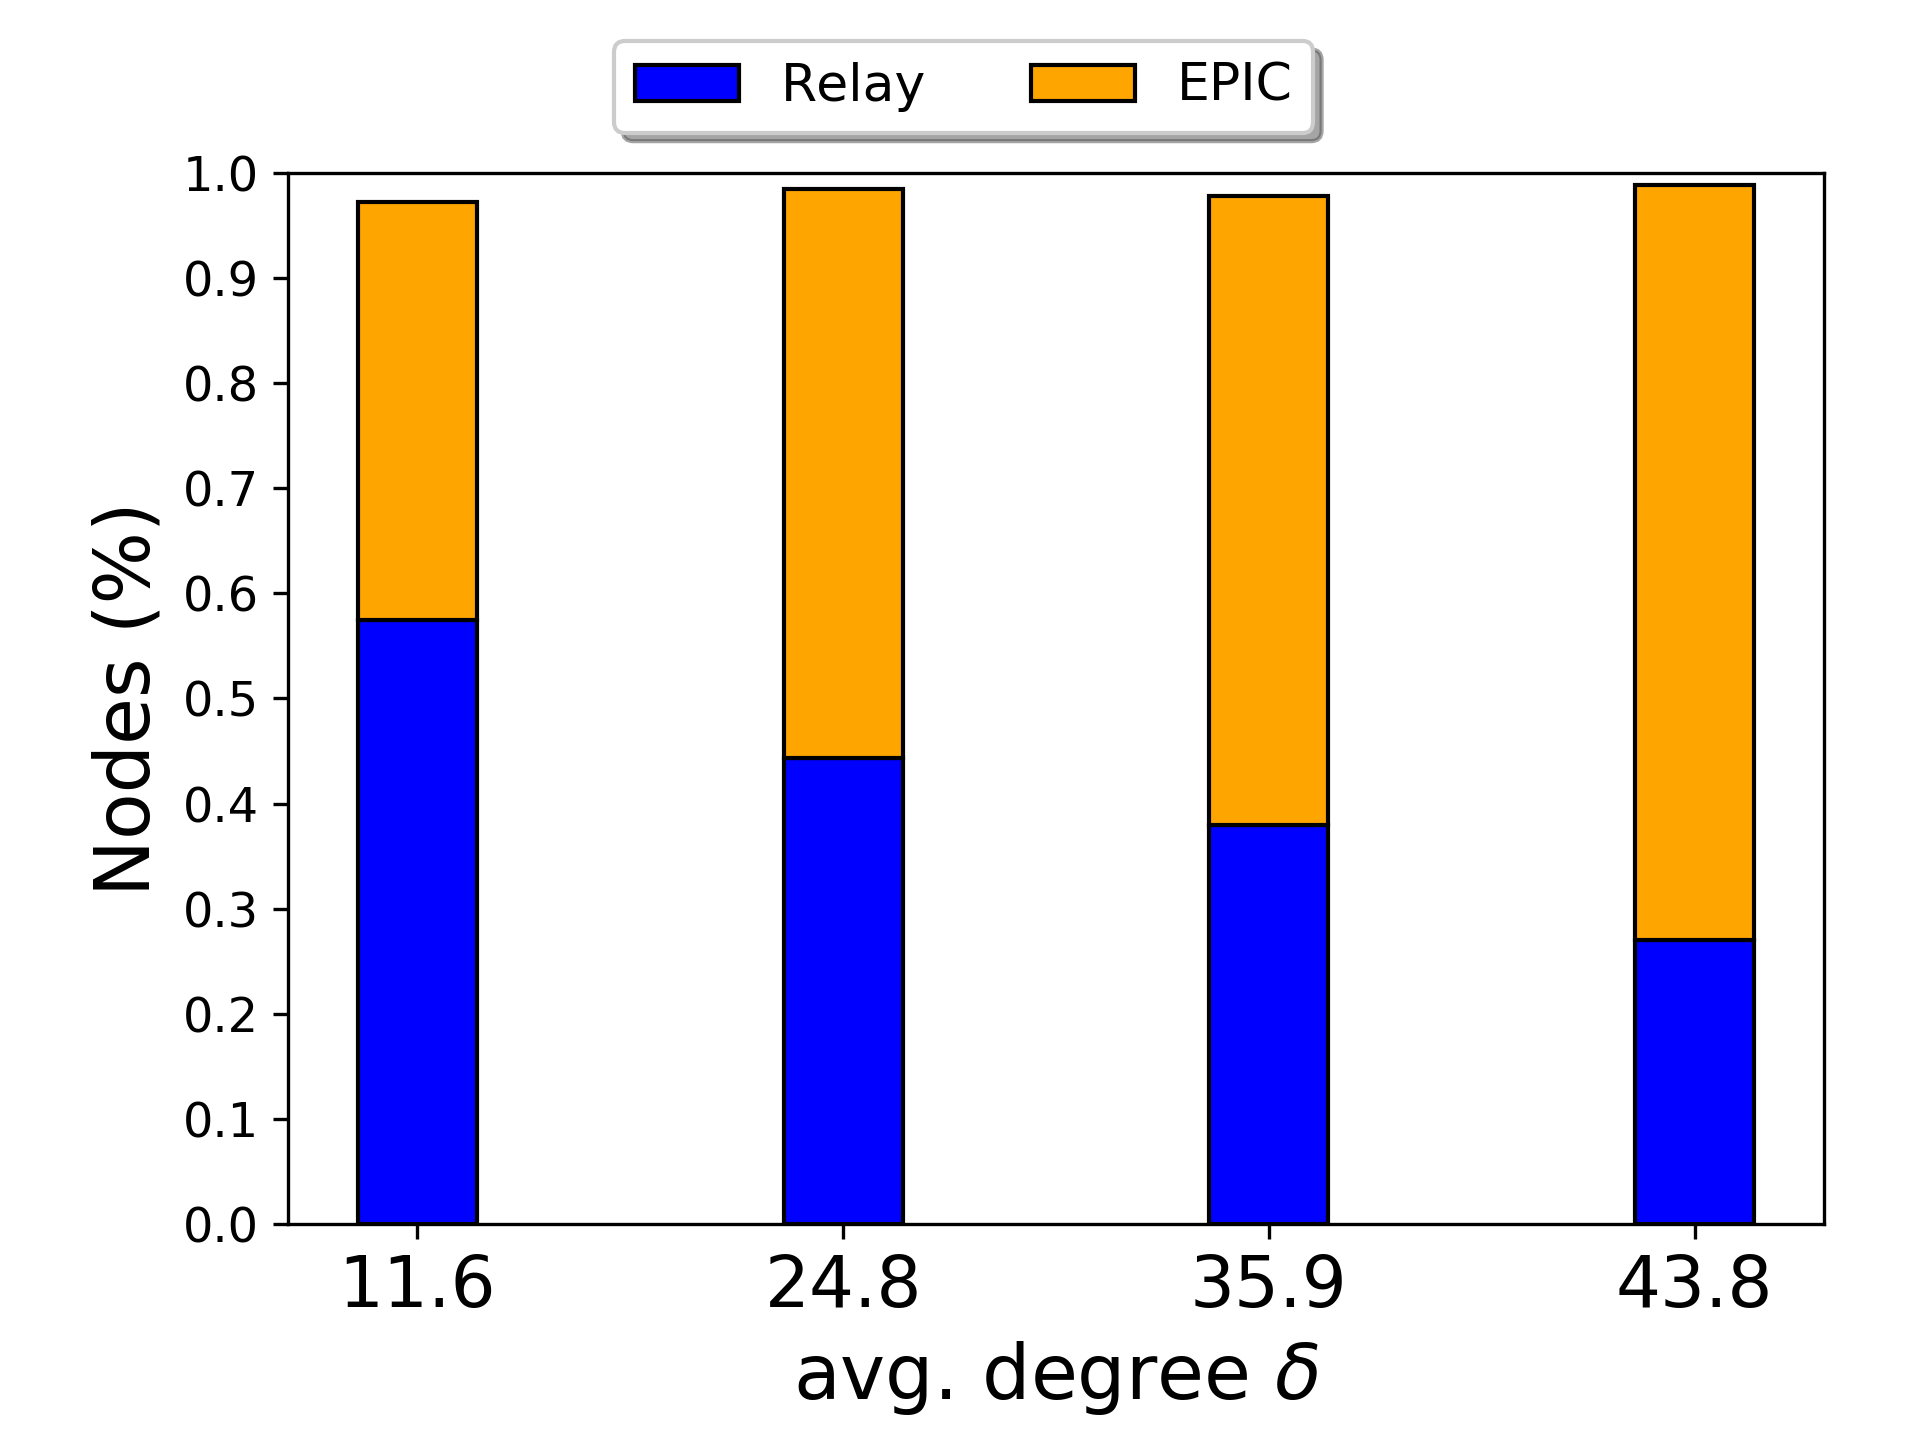
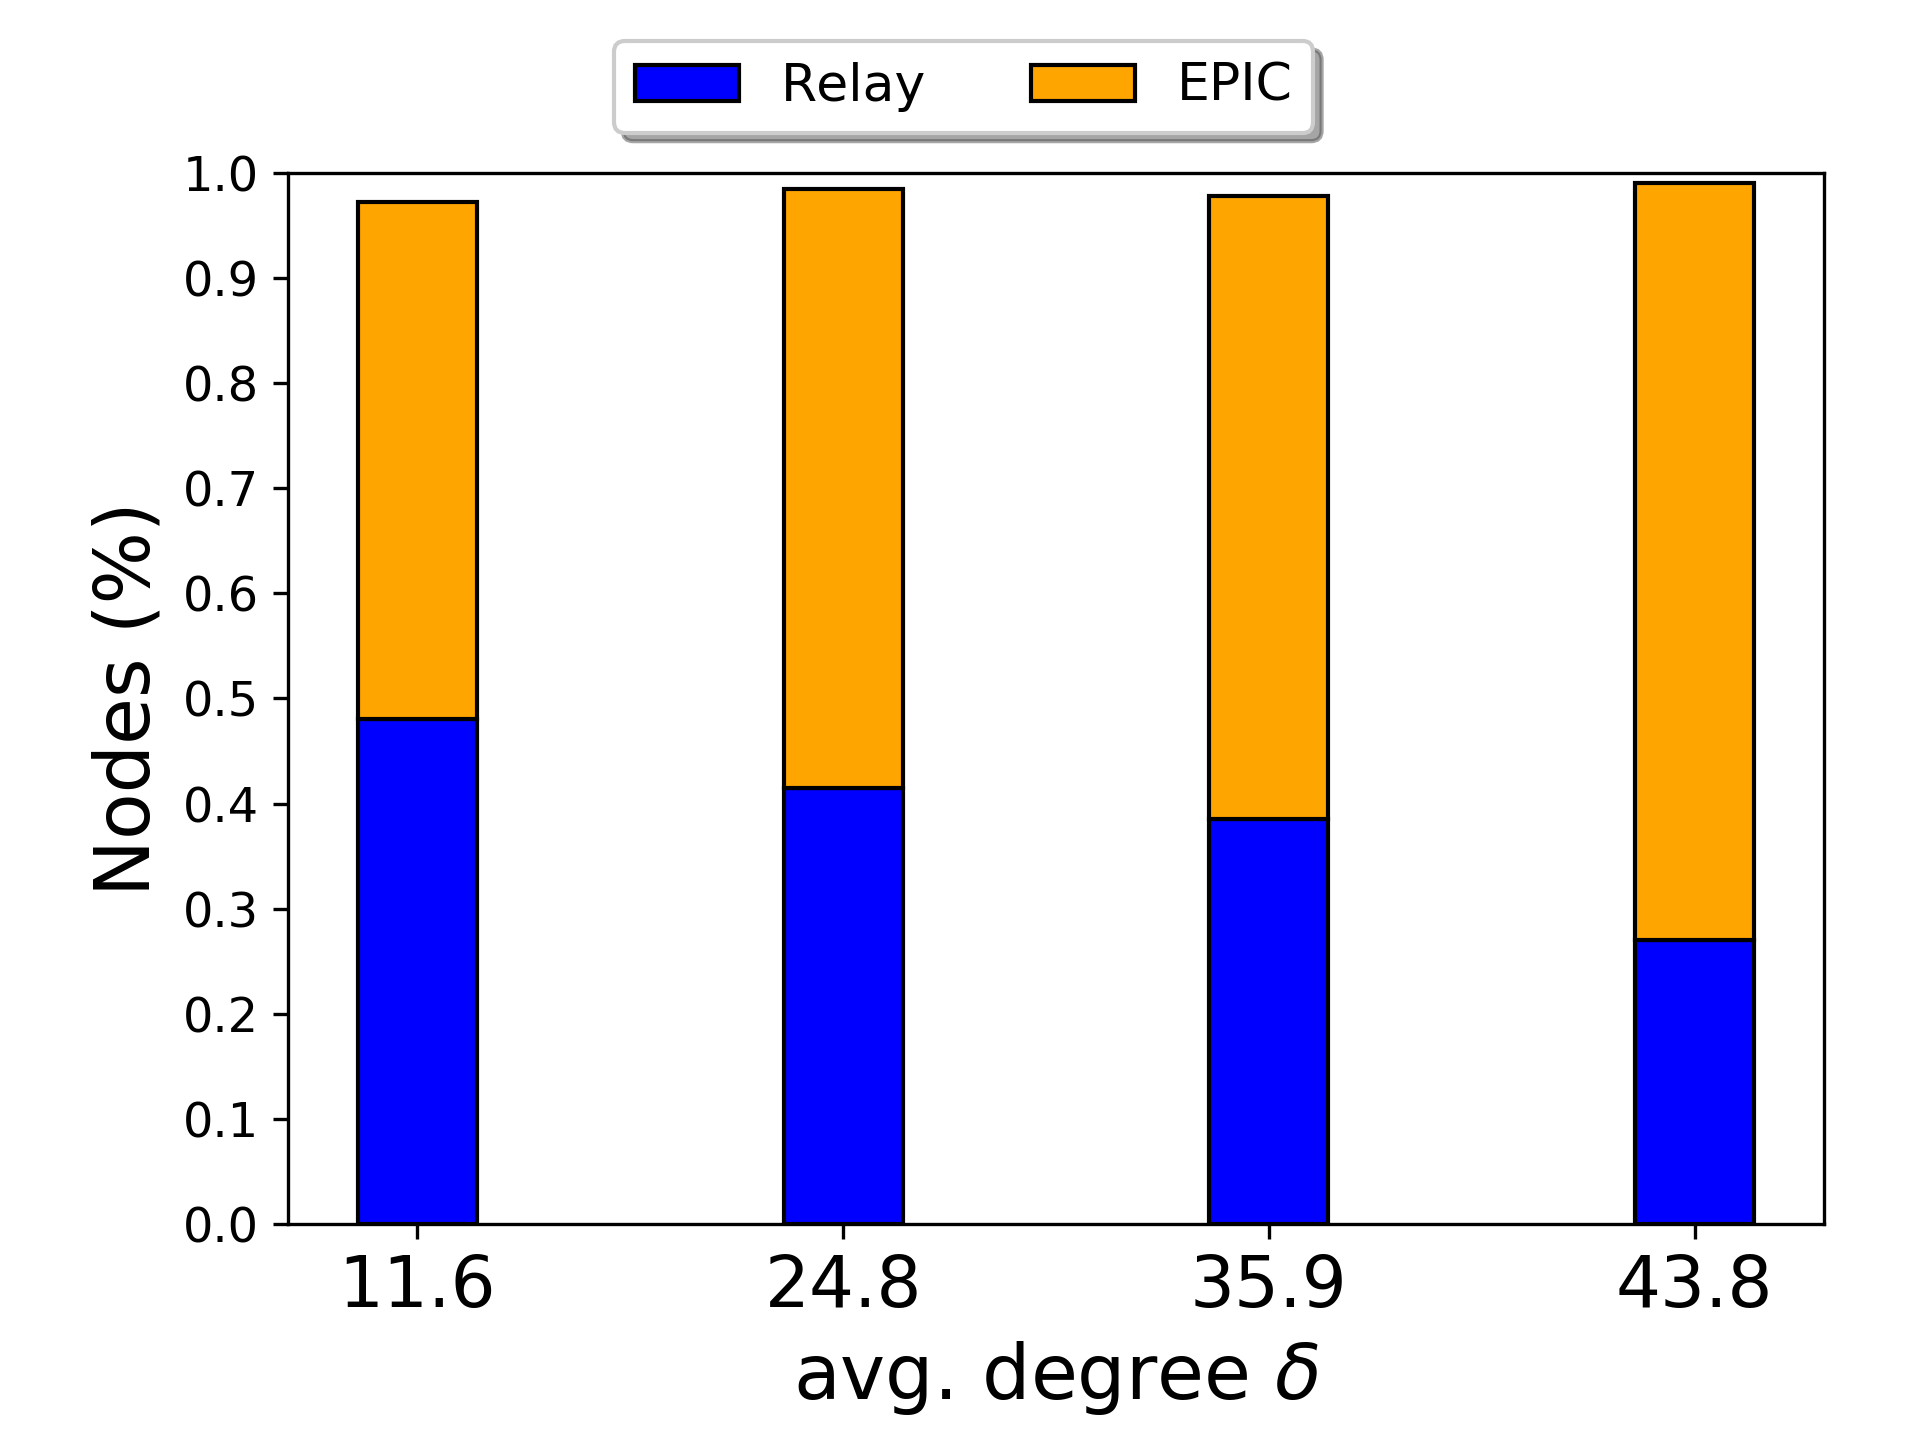
graphs update

Changed region(s): [[0.1875, 0.4062, 0.25, 0.5], [0.4062, 0.5, 0.4688, 0.5625], [0.625, 0.5625, 0.6875, 0.5938]]

diff --git a/grafici/graph-slide-TC-network-traffic.py b/grafici/graph-slide-TC-network-traffic.py
@@ -1,0 +1,69 @@
+
+from matplotlib import pyplot as plt 
+from matplotlib.ticker import FuncFormatter
+import numpy as np
+
+
+plt.rcParams.update({'font.size': 13})
+plt.rc('legend', fontsize=12.5)
+plt.rc('xtick', labelsize=12)
+plt.rc('ytick', labelsize=11.5)
+plt.rc('axes', titlesize=11)
+plt.rc('axes', labelsize=13)
+
+
+
+def kilobytes(x, pos):
+    '''The two args are the value and tick position'''
+    return '%1.0fKB' % (x*1e-3)
+def bytes(x, pos):
+	return '%1.0f' % x
+
+formatter = FuncFormatter(kilobytes)
+formatter_bytes = FuncFormatter(bytes)
+
+fig, ax = plt.subplots()
+ax.yaxis.set_major_formatter(formatter)
+ax.xaxis.set_major_formatter(formatter_bytes)
+
+
+
+#(249/790)*(7+22*6+x) > (608/790)*(7+x)
+
+overhead_msg  = 5+6
+overhead_epic = 22*3+overhead_msg
+
+f_epic, f_prb60, f_prb93, f_wp = 243, 478, 724, 569
+
+X_MAX = 175
+
+x_lux = np.arange(0, X_MAX+1, 5 )
+l1 = f_epic  * (overhead_epic+x_lux)
+l2 = f_prb93 * (overhead_msg+x_lux)
+l3 = f_prb60 * (overhead_msg+x_lux)
+l4 = f_wp    * (overhead_msg+x_lux)
+p1 = ax.plot(x_lux, l1, 'r--')
+p2 = ax.plot(x_lux, l2, 'g--')
+p3 = ax.plot(x_lux, l3, 'b--')
+p4 = ax.plot(x_lux, l4, 'k--')
+
+ax.legend((p1[0], p2[0], p3[0], p4[0]), ('EPIC', r'$P = 0.93$', r'$P = 0.6$', 'w-p-Persistence'))
+
+#ax.set_xlabel('Message size (Bytes)')
+fig.text(0.54, 0.032, 'Payload length (bytes)', ha='center', va='center')
+#fig.text(0.325, 0.91, 'Luxemburg', ha='center', va='center')
+ax.set_ylabel('Total network traffic (Kbytes)')
+
+
+ax.set_ylim(0, 100000)
+ax.set_xlim(5, X_MAX)
+
+
+plt.gcf().subplots_adjust(left=0.15, right=0.95)
+
+#plt.show()
+plt.savefig('grafici/top_car/traffic_comparison.png', dpi=300)
+
+
+
+

diff --git a/grafici/graph-epidemic.py b/grafici/graph-epidemic.py
@@ -1,0 +1,49 @@
+
+import numpy as np
+from scipy.integrate import odeint
+import matplotlib.pyplot as plt
+
+# Total population, N.
+N = 1000
+# Initial number of infected and recovered individuals, I0 and R0.
+I0, R0 = 1, 0
+# Everyone else, S0, is susceptible to infection initially.
+S0 = N - I0 - R0
+# Contact rate, beta, and mean recovery rate, gamma, (in 1/days).
+beta, gamma = 1, 0.4 
+# A grid of time points (in days)
+t = np.linspace(0, 160, 160)
+
+# The SIR model differential equations.
+def deriv(y, t, N, beta, gamma):
+    S, I, R = y
+    dSdt = -beta * S * I / N
+    dIdt = beta * S * I / N - gamma * I
+    dRdt = gamma * I
+    return dSdt, dIdt, dRdt
+
+# Initial conditions vector
+y0 = S0, I0, R0
+# Integrate the SIR equations over the time grid, t.
+ret = odeint(deriv, y0, t, args=(N, beta, gamma))
+S, I, R = ret.T
+
+# Plot the data on three separate curves for S(t), I(t) and R(t)
+fig = plt.figure(facecolor='w')
+ax = fig.add_subplot(111, axisbelow=True)
+ax.plot(t, S/N, 'b', alpha=0.5, lw=2, label='Susceptible')
+ax.plot(t, I/N, 'r', alpha=0.5, lw=2, label='Infected')
+ax.plot(t, R/N, 'g', alpha=0.5, lw=2, label='Recovered with immunity')
+#ax.set_xlabel('Time /days')
+#ax.set_ylabel('Number (1000s)')
+ax.set_ylim(0,1.0)
+#ax.set_xlim(0,160)
+ax.grid()
+#ax.yaxis.set_tick_params(length=0)
+#ax.xaxis.set_tick_params(length=0)
+#ax.grid(b=True, which='major', c='w', lw=2, ls='-')
+legend = ax.legend()
+legend.get_frame().set_alpha(0.5)
+#for spine in ('top', 'right', 'bottom', 'left'):
+    #ax.spines[spine].set_visible(True)
+plt.show()

diff --git a/grafici/graph-TC-alg-rmin-comp.py b/grafici/graph-TC-alg-rmin-comp.py
@@ -13,11 +13,11 @@ plt.rc('ytick', labelsize=11.5)
 N = 6
 
 
-means_frw_low_dens = np.array([73.05174563591022, 55.531483790523666, 40.39900249376558, 27.771197007481287, 16.683291770573568, 10.11533665835411]) /100
-means_recv_low_dens = np.array([98.82431421446393, 97.25748129675812, 92.67082294264337, 80.20573566084788, 64.50124688279301, 45.84632169576061])*0.98/100 - means_frw_low_dens 
+means_frw_low_dens = np.array([56.05174563591022, 49.531483790523666, 40.39900249376558, 27.771197007481287, 16.683291770573568, 10.11533665835411]) /100
+means_recv_low_dens = np.array([99.32431421446393, 98.25748129675812, 92.67082294264337, 80.20573566084788, 64.50124688279301, 45.84632169576061])/100 - means_frw_low_dens 
 
 means_frw_high_dens = np.array([535.61, 287, 188.8, 128.8, 94.16, 57.2, ]) /(790)
-means_recv_high_dens = np.array([99.5, 98.8, 98.4, 89.45, 88.79, 73])/100 - means_frw_high_dens
+means_recv_high_dens = np.array([99.5, 98.9, 98.5, 93.45, 86.79, 73])/100 - means_frw_high_dens
 
 
 

diff --git a/grafici/graph-slide-TC-forw-recv.py b/grafici/graph-slide-TC-forw-recv.py
@@ -53,8 +53,15 @@ plt.rc('ytick', labelsize=11.5)
 
 
 N = 4
-means_infected = (0.9725-0.575, 0.985-350/790, 0.978-300/790, 0.988-0.27)
-means_frw = (0.575, 350/790, 300/790, 0.27)
+#means_infected = (0.9725-0.575, 0.985-350/790, 0.978-300/790, 0.99-0.27)
+#means_frw = (0.575, 350/790, 300/790, 0.27)
+means_frw = (0.48, 0.415, 0.385, 0.27)
+means_infected = (0.9725, 0.985, 0.978, 0.985)
+
+means_infected = np.array(means_infected) - np.array(means_frw)
+
+
+
 ind = np.arange(N)    # the x locations for the groups
 width = 0.28       # the width of the bars: can also be len(x) sequence
 

diff --git a/car.py b/car.py
@@ -48,7 +48,7 @@ class Car:
 		msg.hop += 1
 
 	def broadMsg(self):
-		bcast = self.evaluate_positions_probabilistic(self.messages, self.pos)
+		bcast = self.evaluate_positions(self.messages, self.pos)
 		if (not bcast):
 			return
 

diff --git a/msg.py b/msg.py
@@ -1,6 +1,6 @@
 class Msg:
 
-	EMITTERS_LIMIT = 4
+	EMITTERS_LIMIT = 10
 
 	def __init__(self, numSeq, text, origin, emit, hop, ttl, emitters=None):
 		#origin e' la sorgente iniziale del messaggio,
